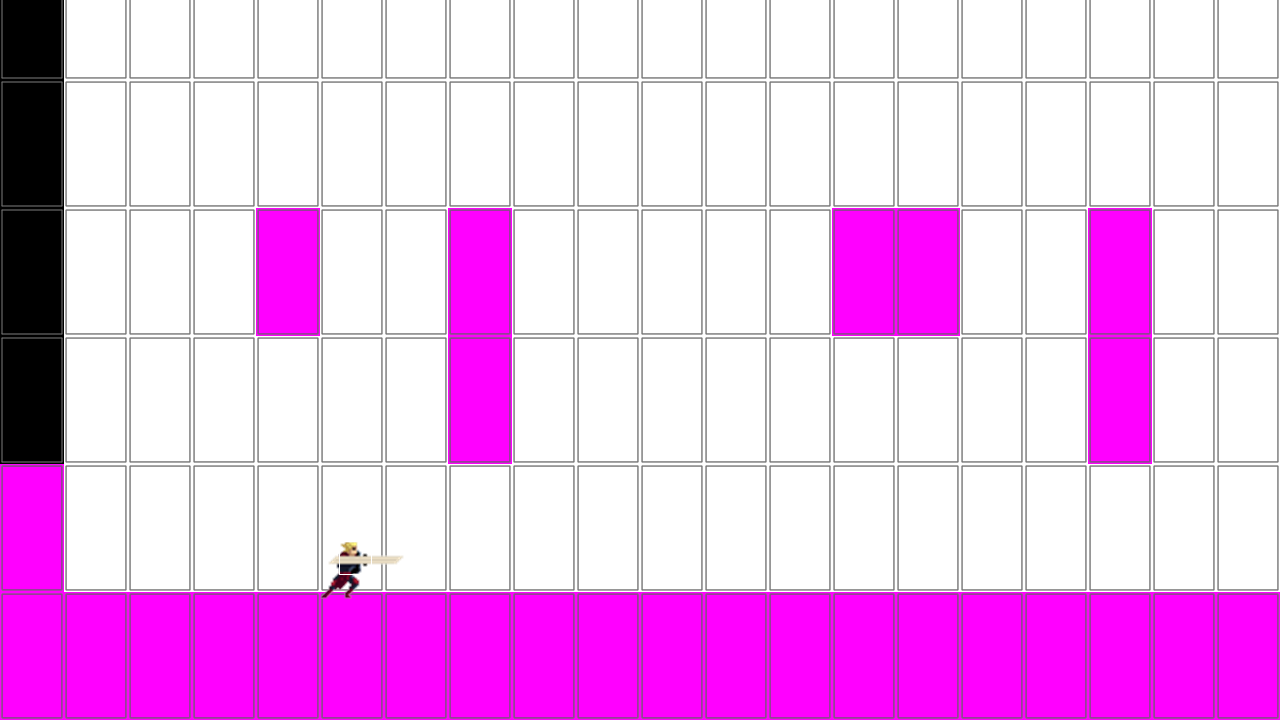
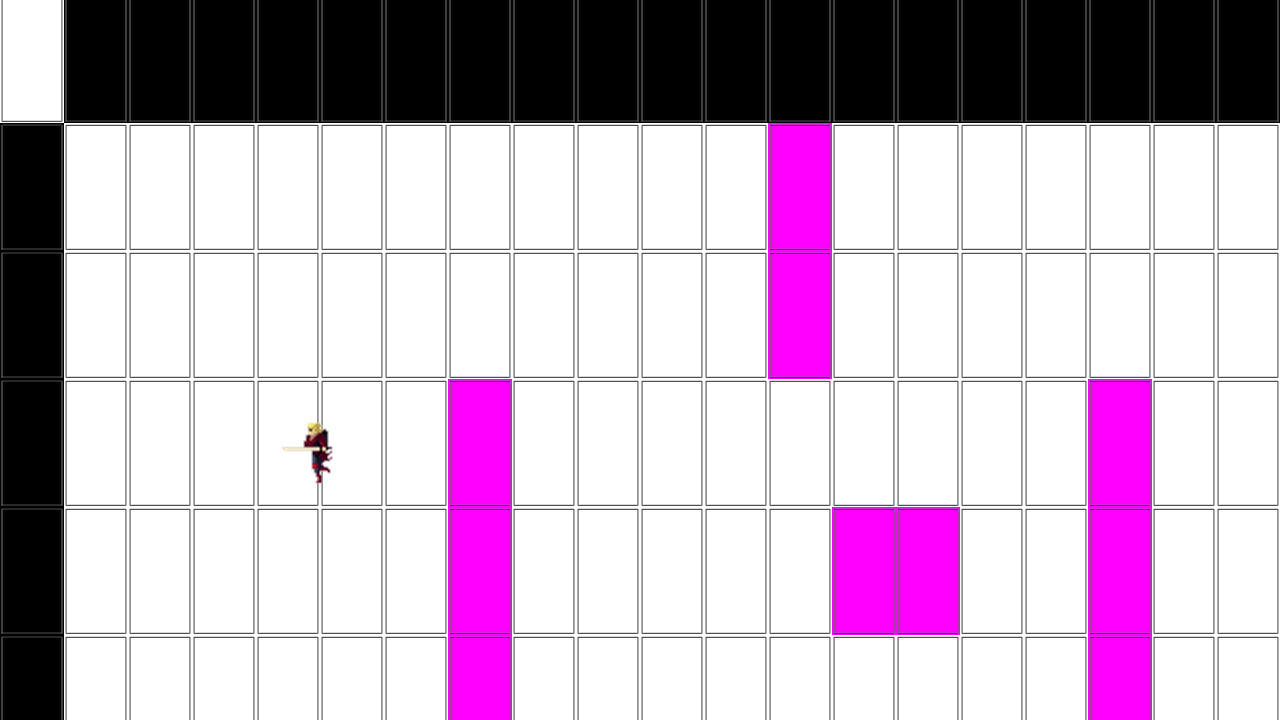
#desktop
애니메이션 방향 설정 추가함.

diff --git a/OpenGL-portfolio/lib/iImage.cpp b/OpenGL-portfolio/lib/iImage.cpp
@@ -140,6 +140,93 @@ void iImage::paint(float dt, iPoint off)
 	}
 }
 
+void iImage::paint(float dt, iPoint off, int direction) 
+{
+	int dir;
+
+	switch(direction)
+	{
+	case 0:
+		dir = REVERSE_WIDTH;
+		break;
+
+	case 1:
+		dir = REVERSE_NONE;
+		break;
+
+	case 2:
+		dir = REVERSE_HEIGHT;
+		break;
+
+	case 3:
+		dir = REVERSE_WIDTH + REVERSE_HEIGHT;
+		break;
+
+		
+	}
+	if (animation)
+	{
+		aniDt += dt;
+		if (aniDt < _aniDt)
+		{
+			;
+		}
+		else
+		{
+			aniDt -= _aniDt;
+			frame++;
+			if (frame == arrayTex->count)
+			{
+				if (_repeatNum == 0)
+					frame = 0;
+				else
+				{
+					repeatNum++;
+					if (repeatNum < _repeatNum)
+						frame = 0;
+					else// if (repeatNum == _repeatNum)
+					{
+						if (method) // 애니메이션 끝나고 호출되는 callback
+							method(this);
+						if (lastFrame)
+							frame = arrayTex->count - 1;
+						else
+							frame = 0;
+						animation = false;
+					}
+				}
+			}
+			tex = (Texture*)arrayTex->objectAtIndex(frame);
+		}
+	}
+
+	if (selected)
+	{
+		selectedDt += dt;
+		if (selectedDt > _selectedDt)
+			selectedDt = _selectedDt;
+	}
+	else
+	{
+		selectedDt -= dt;
+		if (selectedDt < 0.0f)
+			selectedDt = 0.0f;
+	}
+	iPoint p = position + off;
+	float s = 1.0f + linear(selectedDt / _selectedDt, 0.0f, selectedScale);
+	if (s == 0.0f)
+	{
+		drawImage(tex, p.x, p.y, TOP | LEFT);
+	}
+	else
+	{
+		p.x += tex->width / 2;
+		p.y += tex->height / 2;
+		drawImage(tex, p.x, p.y, 0, 0, tex->width, tex->height,
+			VCENTER | HCENTER, s, s, 2, 0, dir);
+	}
+}
+
 void iImage::startAnimation(IMAGE_METHOD m)
 {
 	animation = true;

diff --git a/OpenGL-portfolio/game/stage.cpp b/OpenGL-portfolio/game/stage.cpp
@@ -22,6 +22,7 @@ uint8 tileAttr[MapTileNumX * MapTileNumY] = {
 
 
 
+#define ON_HITBOX 0
 
 Player* hero;
 MapTile* maptile;
@@ -93,18 +94,27 @@ void drawStage(float dt)
 
 		//mh->jump();
 	}
-
-	uint32 keyStat = getKeyStat();
-	uint32 keyDown = getKeyDown();
+	uint32 keyStat = 0;
+	uint32 keyDown = 0;
+	if (hero->behave != Behave_meleeAttack)
+	{
+		 keyStat = getKeyStat();
+		 keyDown = getKeyDown();
+	}
 	iPoint v = iPointZero;
 	if (keyStat & keyboard_left) v.x = -1;
 	else if (keyStat & keyboard_right) v.x = 1;
 	if (keyStat & keyboard_up) v.y = -1;
 	else if (keyStat & keyboard_down) v.y = 1;
 
+	
 	Behave be;
 	if (keyDown & keyboard_num1)
 		be = Behave_meleeAttack;
+
+	else if (keyDown & keyboard_space)
+		be = Behave_jumpAndFall;
+	
 	else
 		be = (v == iPointZero ? Behave_idle : Behave_move);
 	int dir = hero->direction;
@@ -155,10 +165,11 @@ void drawStage(float dt)
 			if (offMt.y < devSize.height - MapTileHeight * MapTileNumY)
 				offMt.y = devSize.height - MapTileHeight * MapTileNumY;
 		}
-
+#if DEBUG
 		//hitbox
 		drawRect((hero->getPosition().x - hero->getSize().width / 2) + offMt.x,
 			(hero->getPosition().y - hero->getSize().height) + offMt.y, hero->getSize().width, hero->getSize().height);
+#endif
 	}
 	else// if(v == iPointZero)
 	{
@@ -211,9 +222,11 @@ void drawStage(float dt)
 		}
 
 		//hitbox
+#if ON_HITBOX
 		drawRect((hero->getPosition().x - hero->getSize().width / 2)+ offMt.x,
 				(hero->getPosition().y - hero->getSize().height)+ offMt.y, hero->getSize().width, hero->getSize().height);
-	
+
+#endif
 	}
 
 	// scroll type

diff --git a/OpenGL-portfolio/lib/iImage.h b/OpenGL-portfolio/lib/iImage.h
@@ -19,6 +19,7 @@ public:
 	void replaceAtIndex(int index, Texture* tex);
 
 	void paint(float dt, iPoint off);
+	void paint(float dt, iPoint off, int direction);
 	void startAnimation(IMAGE_METHOD m = 0);
 
 	iRect touchRect(iPoint p = iPointMake(0, 0));

diff --git a/OpenGL-portfolio/GameObject/Player.cpp b/OpenGL-portfolio/GameObject/Player.cpp
@@ -105,7 +105,7 @@ void Player::paint(float dt, iPoint offset)
 		break;
 	}
 
-		img->paint(dt,offset);
+		img->paint(dt,offset,direction);
 }
 
 
